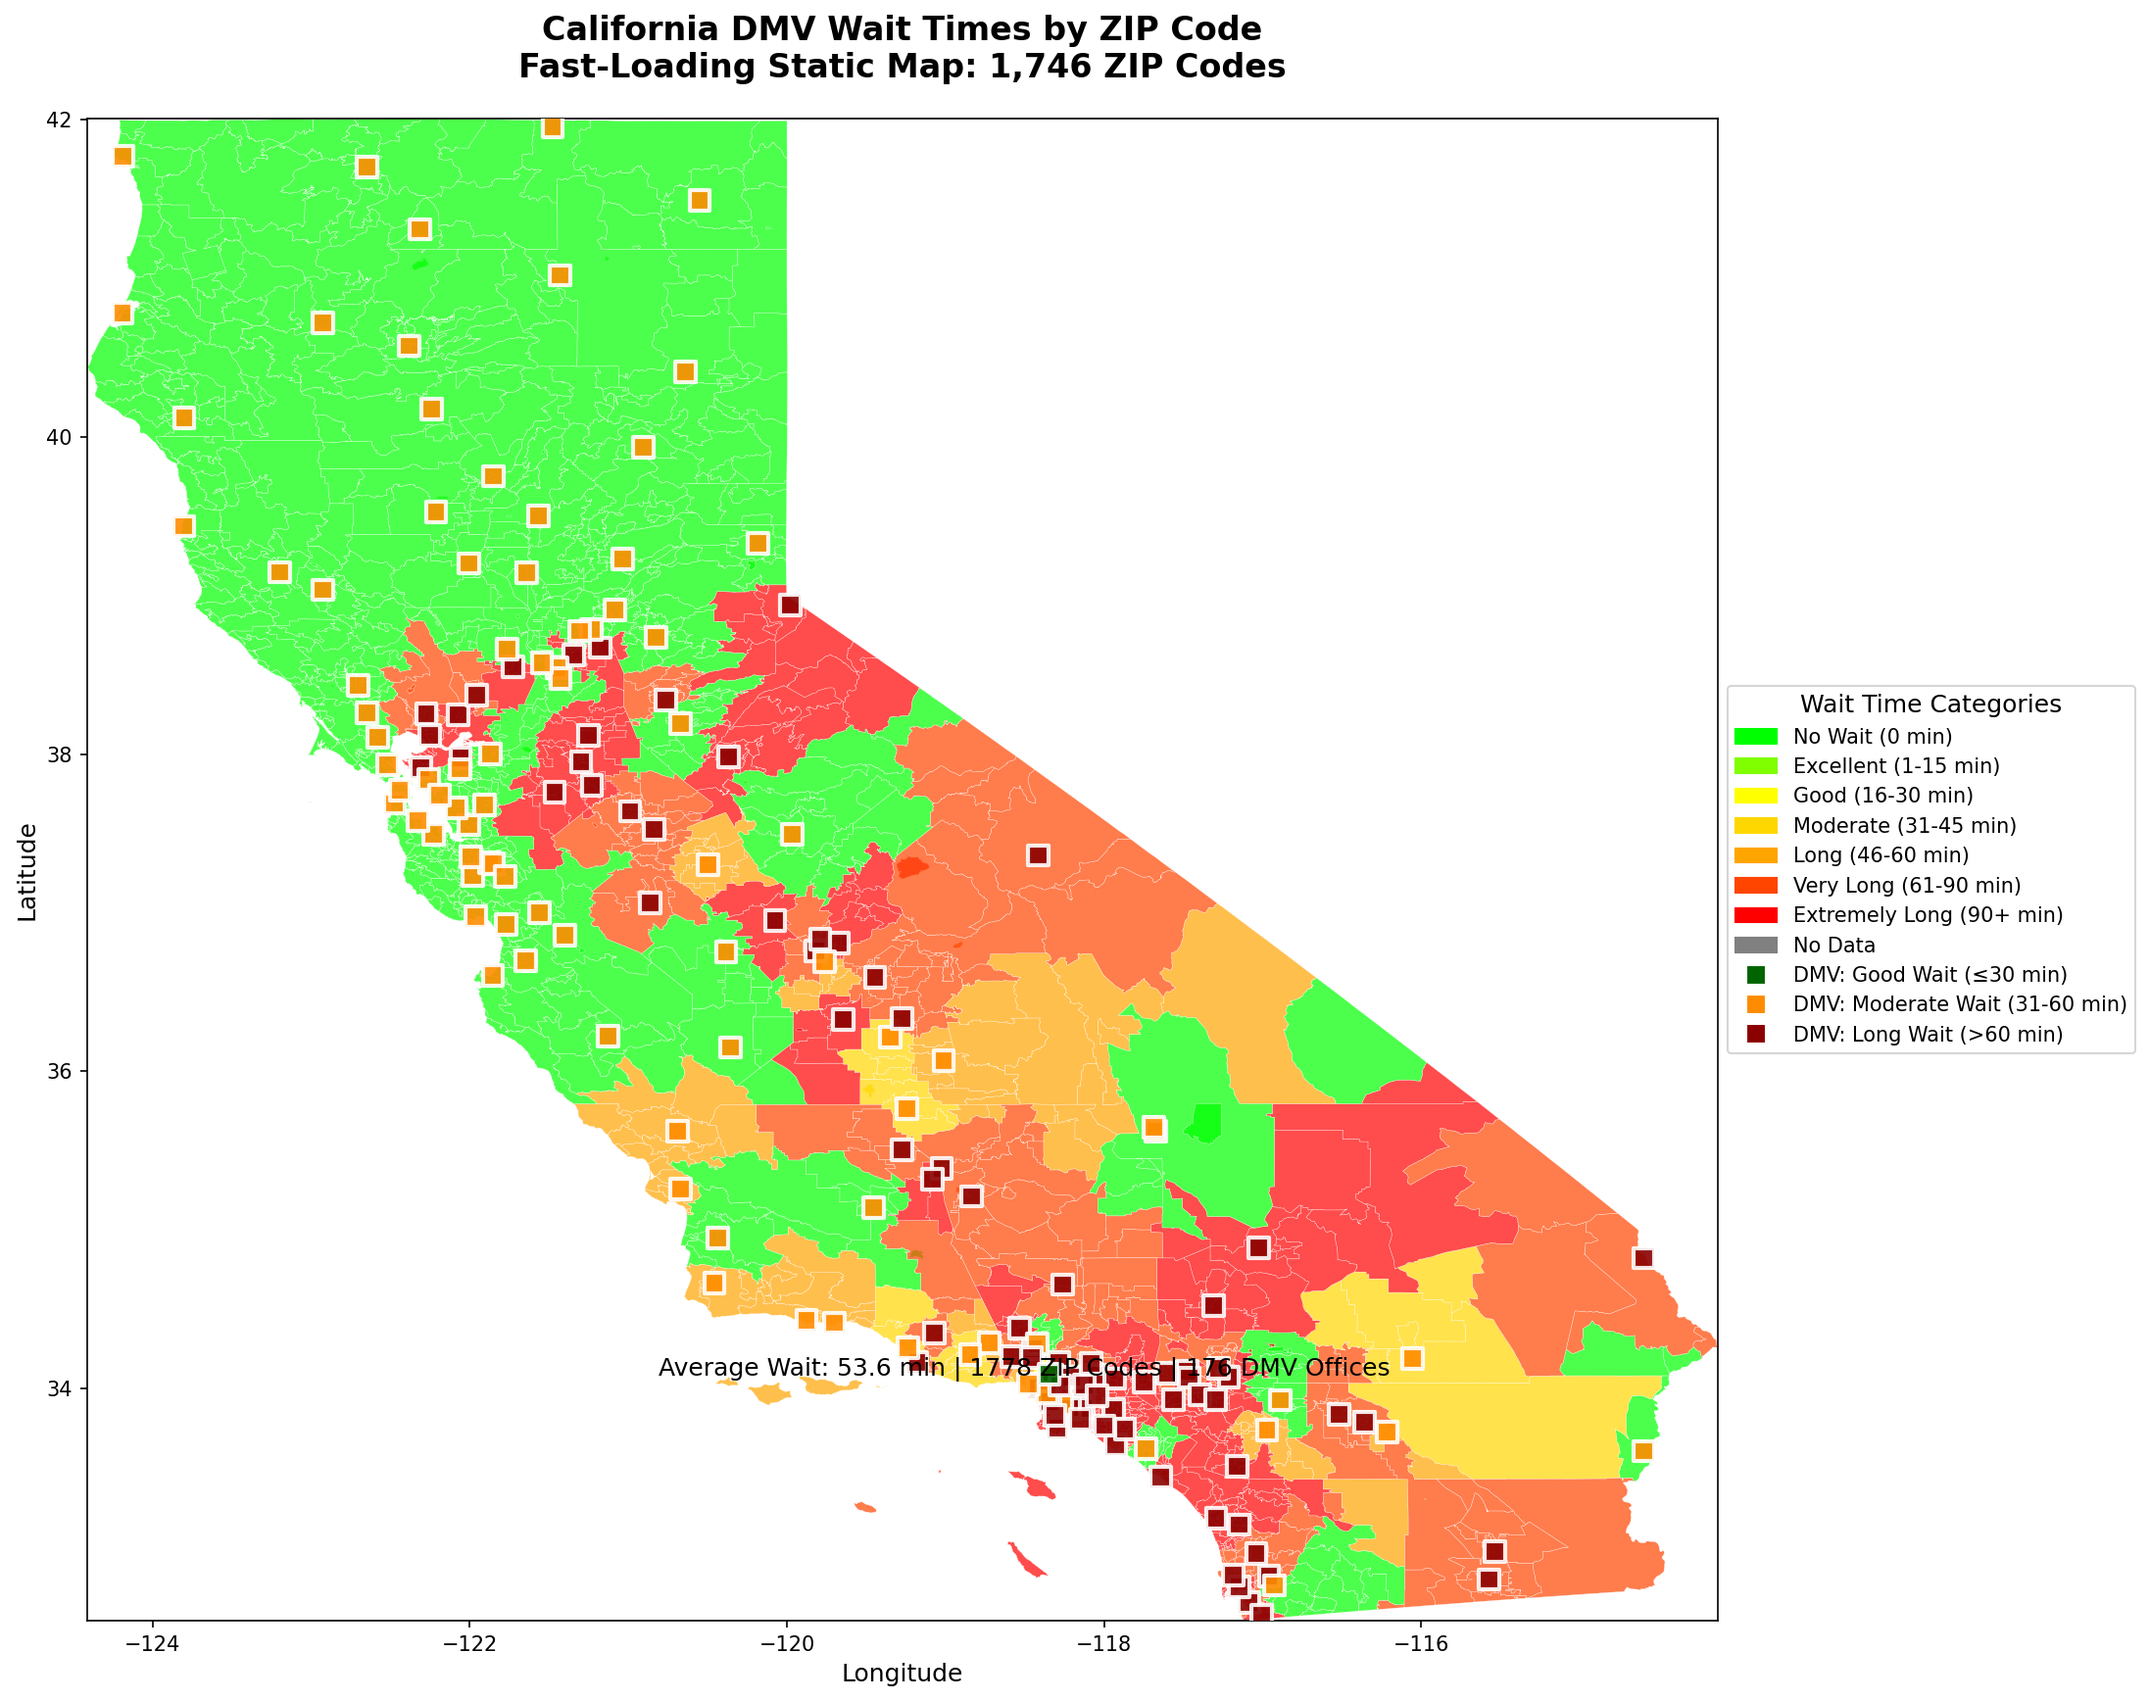
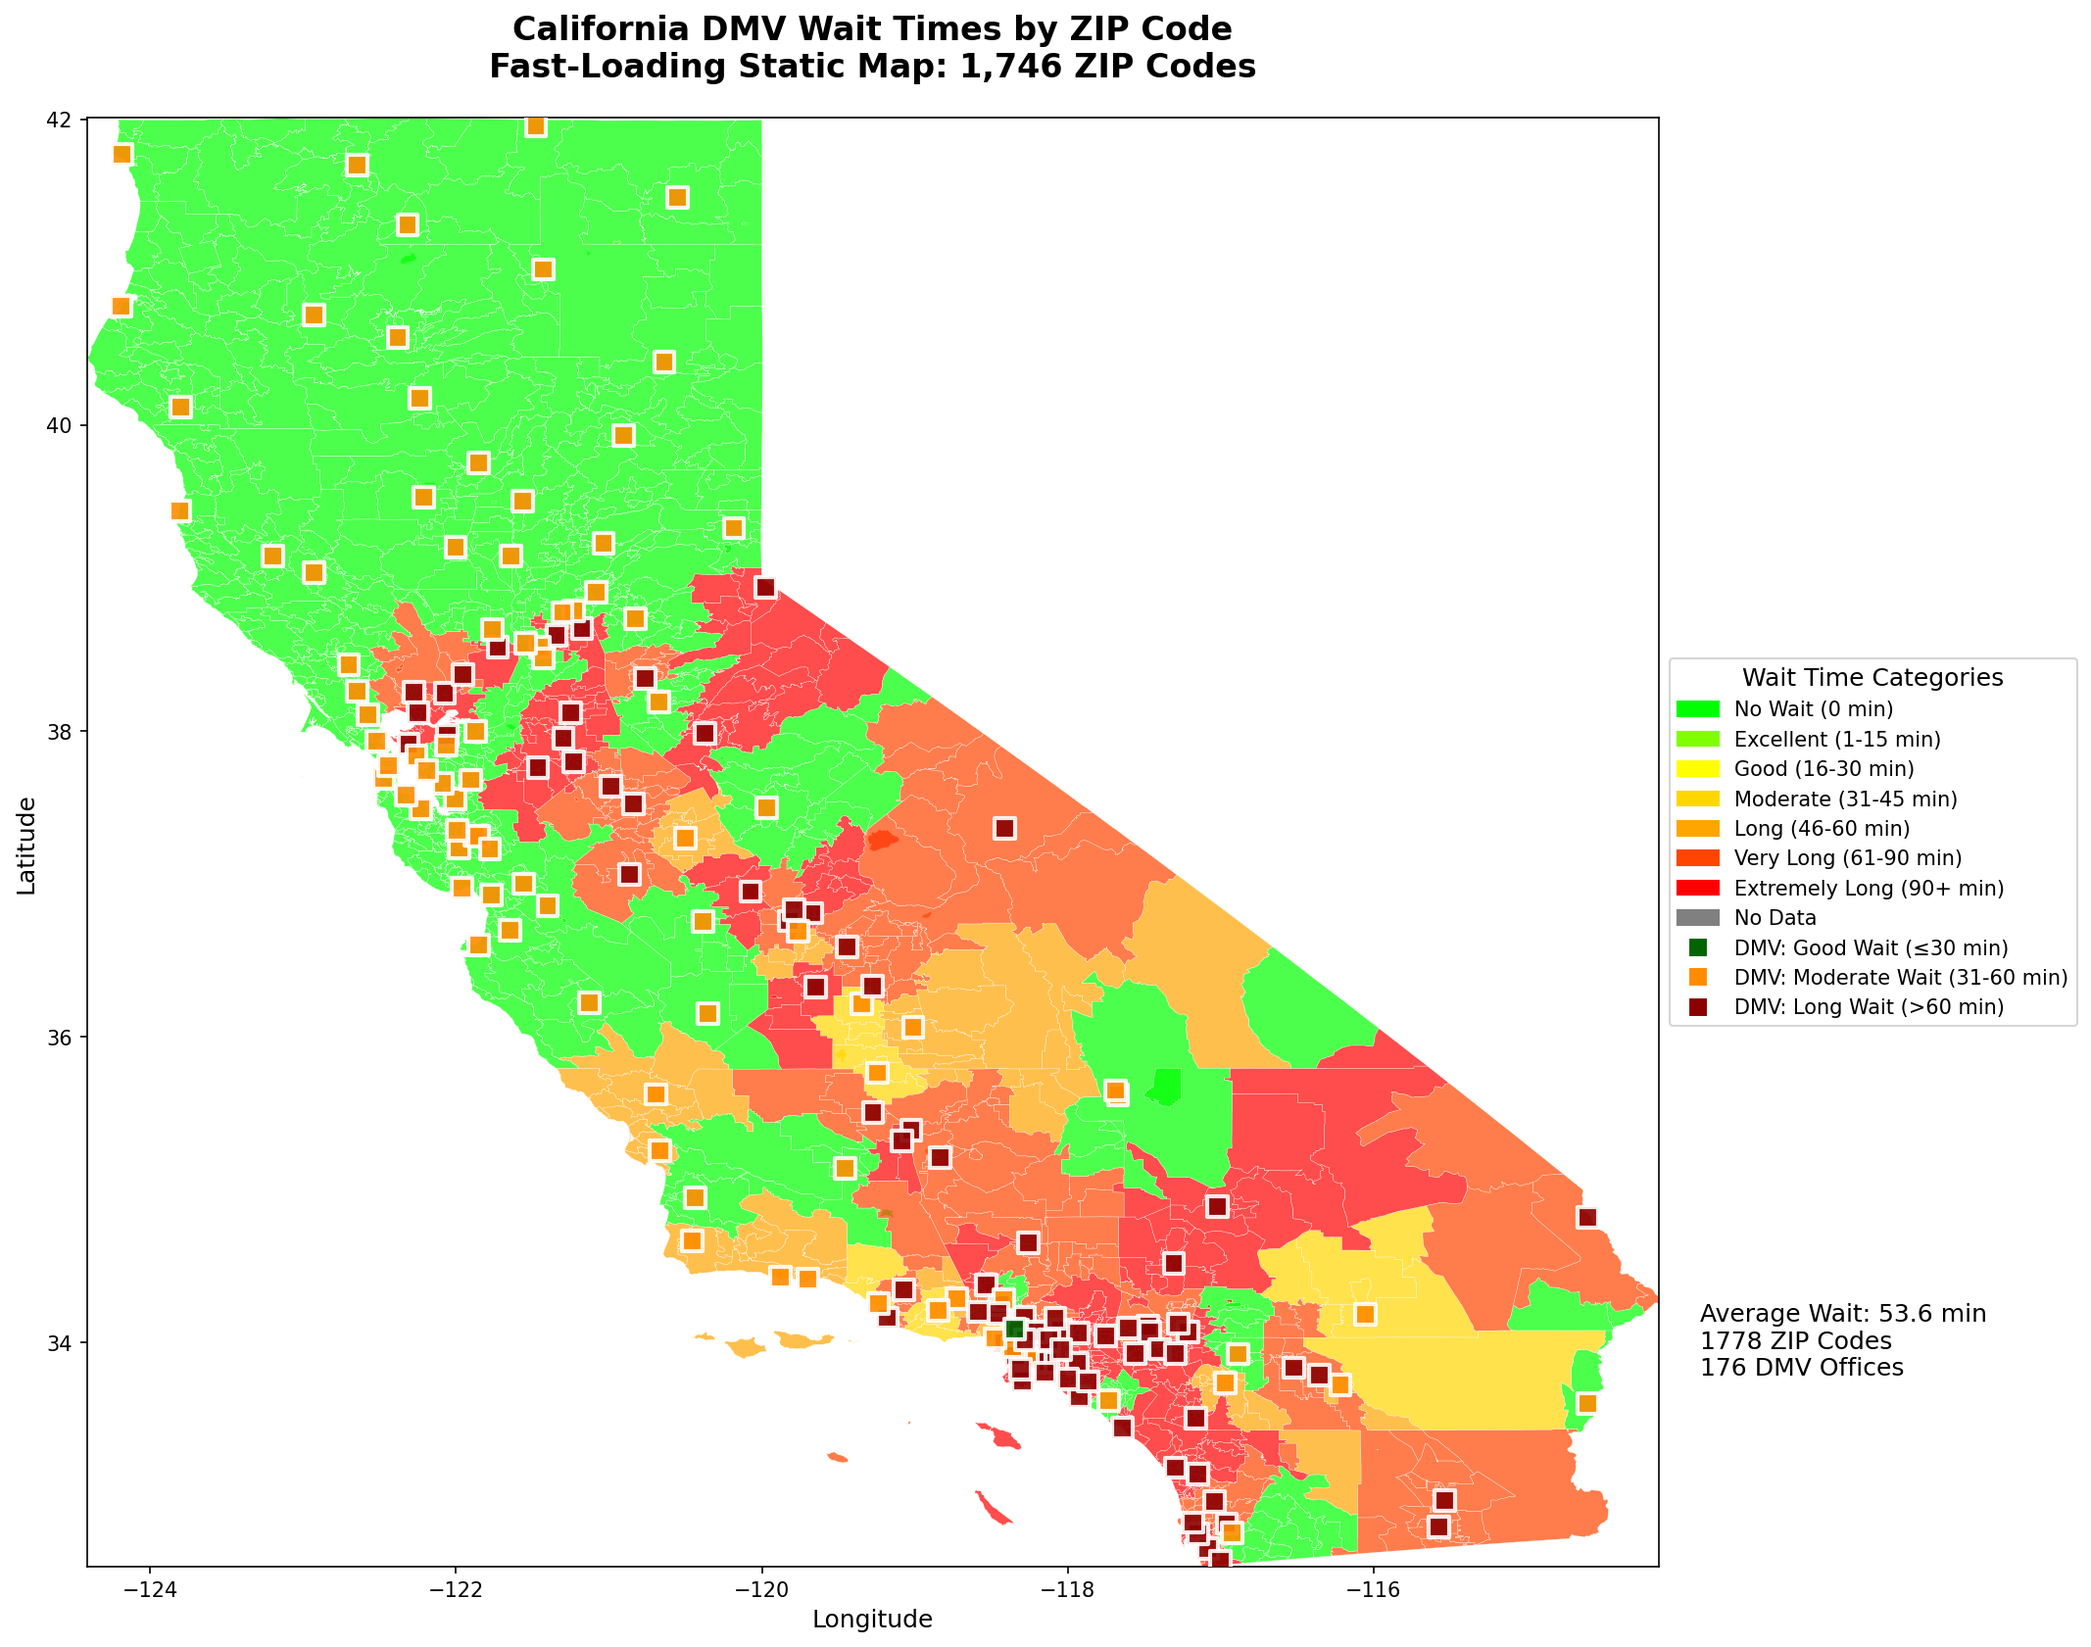
viz fix

diff --git a/pre-processing/zip_analysis_fixed.py b/pre-processing/zip_analysis_fixed.py
@@ -408,8 +408,8 @@ class DMVZipCodeMapper:
             wait_times = [zip_info['wait_time'] for zip_info in zip_data if zip_info['wait_time'] is not None]
             avg_wait = sum(wait_times) / len(wait_times) if wait_times else 0
             
-            subtitle = f'Average Wait: {avg_wait:.1f} min | {len(zip_data)} ZIP Codes | {len(offices)} DMV Offices'
-            fig.suptitle(subtitle, fontsize=12, y=0.2)
+            subtitle = f'Average Wait: {avg_wait:.1f} min \n{len(zip_data)} ZIP Codes \n{len(offices)} DMV Offices'
+            fig.suptitle(subtitle, fontsize=12, x=0.8, y=0.2, horizontalalignment='left')
             
             # Tight layout to prevent legend cutoff
             plt.tight_layout()
